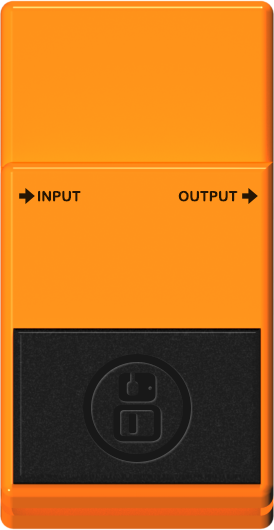
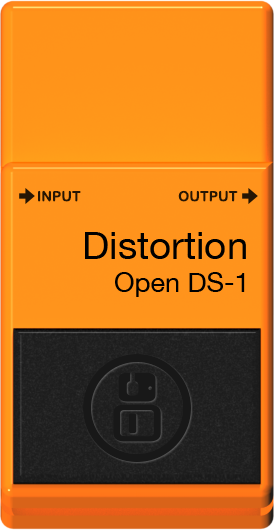
ds1 name in the image because helvetica

Changed region(s): [[0.292, 0.4226, 0.9051, 0.5736]]

diff --git a/ds1/ttl/modgui/icon-ds1.html b/ds1/ttl/modgui/icon-ds1.html
@@ -1,10 +1,6 @@
 <div class="mod-pedal mod-pedal-japanese mod-ds1">
     <div mod-role="drag-handle" class="mod-drag-handle"></div>
     <div class="mod-plugin-author"><h1 class="hidden">MOD</h1></div>
-    <div class="mod-plugin-name">
-      <h1>Distortion</h1>
-      <h2>Open DS-1</h2>
-    </div>
     <div class="mod-light on" mod-role="bypass-light"></div>
     <div class="mod-control-group clearfix">
         <div class="mod-knob mod-knob-big">
